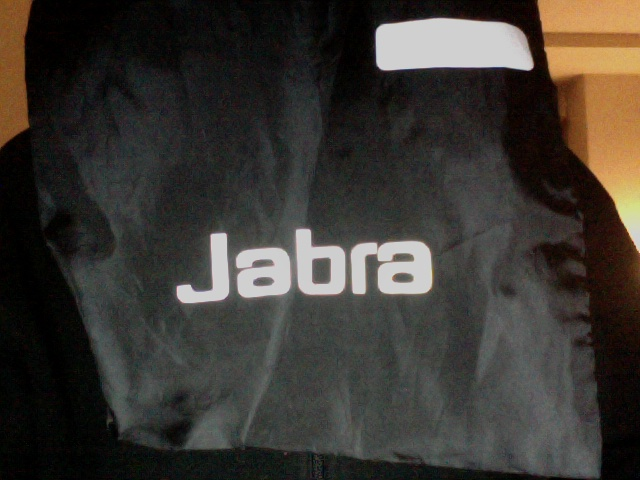
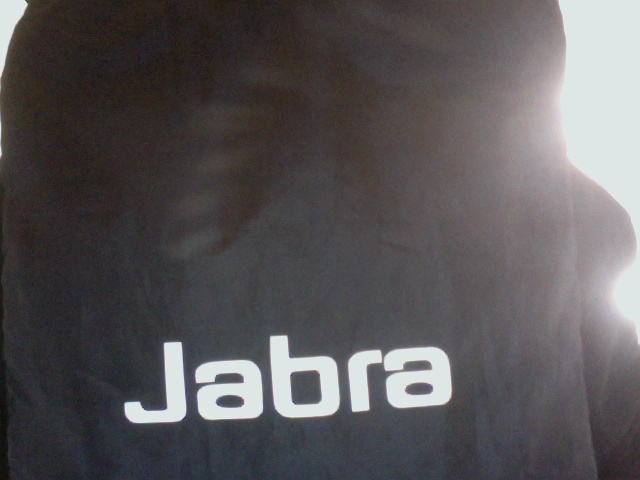
Added imagemagick changes

diff --git a/pyOCR/pyOCR.py b/pyOCR/pyOCR.py
@@ -3,8 +3,9 @@ Created on Oct 8, 2012
 
 @author: ealkl
 '''
-import pyodbc, shutil
+import pyodbc, shutil, subprocess, shlex
 from cv2 import *
+from tesseract.pytesser import *
 #this is important for capturing/displaying images
 
 server = '192.168.227.128'
@@ -15,19 +16,21 @@ pwd = 'testacc'
 #picture = 'test.png' #test.jpg
 
 #Should store in another "temp" directory.
-
 camimg = VideoCapture(0)   # 0 = device
 s, camimg = camimg.read()
 if s:    # frame captured without any errors
-    namedWindow("cam-test",CV_WINDOW_AUTOSIZE)
-    imshow("cam-test",camimg)
-    waitKey(0)
-    destroyWindow("cam-test")
+#    namedWindow("cam-test",CV_WINDOW_AUTOSIZE)
+#    imshow("cam-test",camimg)
+#    waitKey(0)
+#    destroyWindow("cam-test")
     imwrite('test.jpg', camimg)#("test.jpg",camimg) #save image
 
+#ImageMagick - textcleaner. Cleaning source picture for background noise.
+subprocess.call(shlex.split("./textcleaner.sh test.jpg converted_image.jpg"))
+#args = ['./textcleaner.sh', 'test.jpg', 'converted_image.jpg']
+#proc = subprocess.Popen(args)
 #Tesseract OCR
-from tesseract.pytesser import *
-im = Image.open('test.jpg')
+im = Image.open('converted_image.jpg')
 text = image_to_string(im)
 print text
 #SQL connection string.

diff --git a/pyOCR/tesseract/pytesser.py b/pyOCR/tesseract/pytesser.py
@@ -17,7 +17,7 @@ cleanup_scratch_flag = True  # Temporary files cleaned up after OCR operation
 def call_tesseract(input_filename, output_filename):
 	"""Calls external tesseract.exe on input file (restrictions on types),
 	outputting output_filename+'txt'"""
-	args = [tesseract_exe_name, input_filename, output_filename]
+	args = [tesseract_exe_name, input_filename, output_filename, "letters"]
 	proc = subprocess.Popen(args)
 	retcode = proc.wait()
 	if retcode!=0:
@@ -53,7 +53,6 @@ def image_file_to_string(filename, cleanup = cleanup_scratch_flag, graceful_erro
 		if cleanup:
 			util.perform_cleanup(scratch_image_name, scratch_text_name_root)
 	return text
-	
 
 if __name__=='__main__':
 	im = Image.open('phototest.tif')

diff --git a/README.md b/README.md
@@ -7,18 +7,14 @@ If you feel like testing it out, clone the project (launch pyOCR) and follow the
 Cam-interface
 -----------------
 * A function to interface with a (web)camera, take a picture - which we then can parse/import to a renaming & numbering function (see below). (Check)
-
 * Need a function to store an image to the locale filesystem, and rename them numerical & incrementaly. For identification. (Check)
-
 * Timestamp??
 
 #OCR-function
 -----------------
-Currently have this part operational on a test picture, with the following dependencies. Advanced options (Limiting characters? Perhaps directly by adding parameter to binary call of tesseract?) are not available in pytesser.
-
-* pyTesser (Optical Character Recognition module for Python.: http://code.google.com/p/pytesser/)
-
-* If you want to handle images 'in memory' you need PIL (Python Image Library): http://www.pythonware.com/products/pil/
+Currently have this part operational on a test picture, with the listed dependencies. 
+* Will be adding config to limit Tesseract characters. 
+* Also need to clean source image before processing.
 
 Database & Archive
 -----------------
